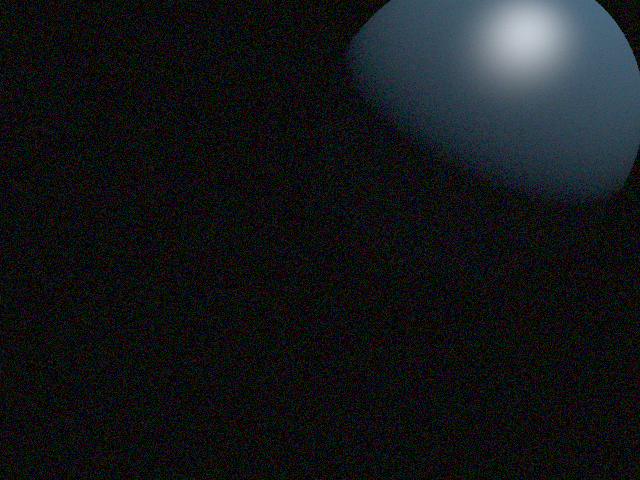
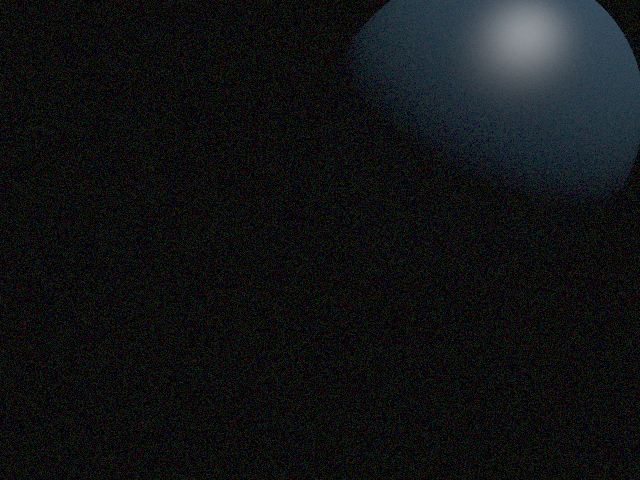
feat(render): add Snell-Descartes refraction with transparency percent (#T057)
Transmission in traceRay via Descartes n1*sin(t1)=n2*sin(t2), ratio frontFace?1/ior:ior,
T=refract(I,N,ratio) origin P-N*eps, TIR (null) keeps base, mix base*(1-Tr)+trans*Tr,
Tr=0 preserves T056, maxDepth0==direct, noexcept no alloc R2/R3, formula commented.
scenes/opt_glass.rt (glass Tr0.9 ior1.5 + red behind) + preuves 12/12
(alias R0.5, material R0.2/Tr0.5 updated).

DoD: make re CXXFLAGS=-std=c++23 green, make test green (194 cases / 72400 assertions, [t057] 4 cases: ior1 no-dev, in/out+TIR, glass shows blue fond, 1.1vs1.5 differ, depth0 cuts, opt_glass non-fond), formula grepable, opt_glass.png valid.

Changed region(s): [[0.5625, 0.0, 1.0, 0.4062]]

diff --git a/tests/unit/test_refraction.cpp b/tests/unit/test_refraction.cpp
@@ -1,0 +1,190 @@
+// Tests de la transparence / refraction (T057, Snell/Descartes), Catch2.
+// DoD : `ior=1` -> pas de deviation, sortie verre->air coherente (dont TIR),
+// formule commentee dans `Renderer.cpp`, scene `scenes/opt_glass.rt`.
+
+#include <catch2/catch_amalgamated.hpp>
+
+#include <cmath>
+#include <string>
+
+#include "rt/base/Vec.hpp"
+#include "rt/render/Framebuffer.hpp"
+#include "rt/render/Renderer.hpp"
+#include "rt/scene/Parser.hpp"
+#include "rt/scene/Scene.hpp"
+
+namespace {
+
+rt::scene::Scene parseOrDie(const std::string& content, const char* name) {
+	rt::Result<rt::scene::Scene> result = rt::scene::parseContent(content, name);
+	REQUIRE(result.isOk());
+	return std::move(result.value());
+}
+
+rt::Vec3 meanAt(const rt::render::Framebuffer& fb, int x, int y) {
+	const rt::Vec3 accum = fb.accumAt(x, y);
+	const int n = fb.samplesAt(x, y);
+	return rt::Vec3(accum.x / static_cast<float>(n), accum.y / static_cast<float>(n),
+	                accum.z / static_cast<float>(n));
+}
+
+} // namespace
+
+TEST_CASE("refraction (T057) : ior=1 pas de deviation (Descartes n1=n2)", "[refraction][t057]") {
+	// Incidence normale : `refract(I, N, 1)` == I (aucune deviation).
+	const rt::Vec3 normal(0.0F, 1.0F, 0.0F);
+	const rt::Vec3 incident(0.0F, -1.0F, 0.0F);
+	const rt::Vec3 straight = rt::refract(incident, normal, 1.0F);
+	REQUIRE_FALSE(rt::nearZero(straight));
+	REQUIRE(straight.x == Catch::Approx(incident.x).margin(1e-5F));
+	REQUIRE(straight.y == Catch::Approx(incident.y).margin(1e-5F));
+	REQUIRE(straight.z == Catch::Approx(incident.z).margin(1e-5F));
+	// Incidence oblique 45 degres : `ratio = 1` ne devie pas non plus.
+	const rt::Vec3 oblique = rt::normalize(rt::Vec3(0.0F, -1.0F, -1.0F));
+	const rt::Vec3 obliqueOut = rt::refract(oblique, normal, 1.0F);
+	REQUIRE_FALSE(rt::nearZero(obliqueOut));
+	REQUIRE(obliqueOut.x == Catch::Approx(oblique.x).margin(1e-5F));
+	REQUIRE(obliqueOut.y == Catch::Approx(oblique.y).margin(1e-5F));
+	REQUIRE(obliqueOut.z == Catch::Approx(oblique.z).margin(1e-5F));
+}
+
+TEST_CASE("refraction (T057) : entree/sortie coherentes + reflexion totale interne",
+          "[refraction][t057]") {
+	// Surface `N = +z`, rayon incident a 60 degres de la normale (`cos = 0.5`).
+	const rt::Vec3 normal(0.0F, 0.0F, 1.0F);
+	const rt::Vec3 incident = rt::normalize(rt::Vec3(0.8660254F, 0.0F, -0.5F));
+	REQUIRE_FALSE(rt::nearZero(incident));
+	// Entree air -> verre (`ratio = 1/1.5`) : se rapproche de la normale
+	// (`|z|` transmis > `|z|` incident, penche vers `-N`).
+	const rt::Vec3 entering = rt::refract(incident, normal, 1.0F / 1.5F);
+	REQUIRE_FALSE(rt::nearZero(entering));
+	REQUIRE(std::isfinite(entering.x));
+	// `z` transmis ≈ -0.816 (calcule : (0.577, 0, -0.816)), plus normal que `-0.5`.
+	REQUIRE(entering.z < incident.z);
+	REQUIRE(entering.z == Catch::Approx(-0.816F).margin(0.01F));
+	REQUIRE(entering.x == Catch::Approx(0.577F).margin(0.01F));
+	// Sortie verre -> air au meme angle (`ratio = 1.5`) : au-dela de l'angle
+	// critique (41.8 degres) -> reflexion totale interne (sentinelle nulle).
+	const rt::Vec3 tir = rt::refract(incident, normal, 1.5F);
+	REQUIRE(rt::nearZero(tir));
+	// Sortie a incidence douce (cos = 0.9, ~25 degres) : s'ecarte de la normale,
+	// fini et normalise.
+	const rt::Vec3 gentle = rt::normalize(rt::Vec3(0.4358899F, 0.0F, -0.9F));
+	const rt::Vec3 exiting = rt::refract(gentle, normal, 1.5F);
+	REQUIRE_FALSE(rt::nearZero(exiting));
+	REQUIRE(std::isfinite(exiting.x));
+	REQUIRE(std::fabs(exiting.x) > std::fabs(gentle.x));
+}
+
+TEST_CASE("refraction (T057) : transparence montre le fond derriere", "[refraction][t057]") {
+	// Pas d'objet derriere (ombres opaques en T057, T058 les affinera) : devant
+	// opaque gris vs devant verre (`Tr 0.9`) face a un fond bleu. Le verre
+	// transmet le fond (miss -> fond), l'opaque montre son diffus gris.
+	const char* opaqueText =
+	    "scene { camera { position (0 0 5) target (0 0 0) fov 60 } "
+	    "background { color (0.1 0.1 0.9) } "
+	    "lights { light { position (0 3 5) color (1 1 1) intensity 1.0 } } "
+	    "objects { "
+	    "object { type sphere center (0 0 0) radius 1 "
+	    "material { albedo (0.8 0.2 0.2) diffuse 0.7 transparency 0.0 ior 1.0 } } } }";
+	const char* glassText =
+	    "scene { camera { position (0 0 5) target (0 0 0) fov 60 } "
+	    "background { color (0.1 0.1 0.9) } "
+	    "lights { light { position (0 3 5) color (1 1 1) intensity 1.0 } } "
+	    "objects { "
+	    "object { type sphere center (0 0 0) radius 1 "
+	    "material { albedo (0.9 0.9 0.9) diffuse 0.2 transparency 0.9 ior 1.5 } } } }";
+	rt::scene::Scene opaque = parseOrDie(opaqueText, "opaque.rt");
+	rt::scene::Scene glass = parseOrDie(glassText, "glass.rt");
+	const rt::render::RenderParams params{.width = 32, .height = 24, .spp = 4, .maxDepth = 4, .seed = 0};
+	rt::render::Framebuffer fbOpaque;
+	rt::render::Framebuffer fbGlass;
+	REQUIRE(rt::render::render(opaque, fbOpaque, params).isOk());
+	REQUIRE(rt::render::render(glass, fbGlass, params).isOk());
+	const rt::Vec3 opaqueCentre = meanAt(fbOpaque, 16, 12);
+	const rt::Vec3 glassCentre = meanAt(fbGlass, 16, 12);
+	INFO("opaque r=" << opaqueCentre.x << " b=" << opaqueCentre.z << " verre r=" << glassCentre.x
+	                 << " b=" << glassCentre.z);
+	REQUIRE(std::isfinite(glassCentre.x));
+	REQUIRE(std::isfinite(glassCentre.y));
+	REQUIRE(std::isfinite(glassCentre.z));
+	// Le verre transmet le fond bleu : plus bleu et moins rouge que l'opaque.
+	REQUIRE(glassCentre.z > opaqueCentre.z);
+	REQUIRE(glassCentre.x < opaqueCentre.x);
+	// `ior` pilote la deviation : `1.1` vs `1.5` (meme `Tr`) donnent 2 images
+	// differentes (au moins un pixel differe au-dela du dithering).
+	// `ior` pilote la deviation : meme scene avec bille rouge derriere (le decalage
+	// par `ior` echantillonne un point different de la bille, meme ombree en T057),
+	// `1.1` vs `1.5` donnent 2 images differentes au-dela du dithering.
+	const char* behind15 =
+	    "scene { camera { position (0 1 4) target (0 0 -1) fov 60 } "
+	    "background { color (0.1 0.1 0.9) } "
+	    "lights { light { position (0 3 5) color (1 1 1) intensity 1.0 } } "
+	    "objects { "
+	    "object { type sphere center (1.2 0 -2) radius 0.5 "
+	    "material { albedo (0.9 0.1 0.1) diffuse 0.7 } } "
+	    "object { type sphere center (0 0 0) radius 1 "
+	    "material { albedo (0.9 0.9 0.9) diffuse 0.2 transparency 0.9 ior 1.5 } } } }";
+	const char* behind11 =
+	    "scene { camera { position (0 1 4) target (0 0 -1) fov 60 } "
+	    "background { color (0.1 0.1 0.9) } "
+	    "lights { light { position (0 3 5) color (1 1 1) intensity 1.0 } } "
+	    "objects { "
+	    "object { type sphere center (1.2 0 -2) radius 0.5 "
+	    "material { albedo (0.9 0.1 0.1) diffuse 0.7 } } "
+	    "object { type sphere center (0 0 0) radius 1 "
+	    "material { albedo (0.9 0.9 0.9) diffuse 0.2 transparency 0.9 ior 1.1 } } } }";
+	rt::scene::Scene scene15 = parseOrDie(behind15, "behind15.rt");
+	rt::scene::Scene glass11 = parseOrDie(behind11, "glass11.rt");
+	rt::render::Framebuffer fb15;
+	rt::render::Framebuffer fbGlass11;
+	REQUIRE(rt::render::render(scene15, fb15, params).isOk());
+	REQUIRE(rt::render::render(glass11, fbGlass11, params).isOk());
+	bool different = false;
+	for (int y = 0; y < params.height && !different; ++y) {
+		for (int x = 0; x < params.width; ++x) {
+			const rt::Vec3 a = meanAt(fb15, x, y);
+			const rt::Vec3 b = meanAt(fbGlass11, x, y);
+			if (std::fabs(a.x - b.x) > 0.031F || std::fabs(a.y - b.y) > 0.031F ||
+			    std::fabs(a.z - b.z) > 0.031F) {
+				different = true;
+				break;
+			}
+		}
+	}
+	INFO("ior 1.5 vs 1.1 differents : " << different);
+	REQUIRE(different);
+	// `maxDepth 0` coupe la transmission : verre `Tr 0.9` == direct (opaque-like).
+	rt::render::Framebuffer fbDepth0;
+	REQUIRE(rt::render::render(glass, fbDepth0,
+	                           {.width = 32, .height = 24, .spp = 4, .maxDepth = 0, .seed = 0})
+	            .isOk());
+	const rt::Vec3 depth0Centre = meanAt(fbDepth0, 16, 12);
+	INFO("profondeur0 r=" << depth0Centre.x << " verre r=" << glassCentre.x);
+	REQUIRE(std::fabs(depth0Centre.x - glassCentre.x) > 0.03F);
+}
+
+TEST_CASE("refraction (T057) : scene opt_glass.rt rend sans erreur", "[refraction][t057]") {
+	rt::Result<rt::scene::Scene> parsed = rt::scene::parseFile("scenes/opt_glass.rt");
+	REQUIRE(parsed.isOk());
+	rt::render::Framebuffer fb;
+	REQUIRE(rt::render::render(parsed.value(), fb, {.width = 48, .height = 36, .spp = 4, .seed = 0})
+	            .isOk());
+	int different = 0;
+	for (int y = 0; y < 36; ++y) {
+		for (int x = 0; x < 48; ++x) {
+			const rt::Vec3 c = meanAt(fb, x, y);
+			REQUIRE(std::isfinite(c.x));
+			REQUIRE(std::isfinite(c.y));
+			REQUIRE(std::isfinite(c.z));
+			const float dr = c.x - parsed.value().background.color.x;
+			const float dg = c.y - parsed.value().background.color.y;
+			const float db = c.z - parsed.value().background.color.z;
+			if ((dr * dr + dg * dg + db * db) > 0.05F * 0.05F) {
+				++different;
+			}
+		}
+	}
+	INFO("non-fond : " << different << "/1728");
+	REQUIRE(different > (48 * 36) / 20);
+}

diff --git a/src/render/Renderer.cpp b/src/render/Renderer.cpp
@@ -1,4 +1,4 @@
-// Boucle de rendu mono-thread (T032) + multi-objets (T046) + reflexion (T056) — implementation
+// Boucle de rendu mono-thread (T032) + multi-objets (T046) + reflexion (T056) + refraction (T057) — implementation
 // sans exception, sans SDL (R6) et sans allocation dans la boucle (R3).
 // Voir `include/rt/render/Renderer.hpp` pour le contrat et
 // `docs/ARCHITECTURE.md` §4 pour le pipeline (camera -> intersection ->
@@ -401,6 +401,18 @@ struct TraceContext {
 // secondaire). Recursion bornee `depth -> depth+1` (pile uniquement, R3),
 // `noexcept`, sans `throw` (R2). Degeneres (normale/direction nulles, NaN)
 // -> direct seul (defini).
+// T057 : refraction (transmission) via la loi de Descartes/Snell (SPEC 5.2 F
+// sous-criteres 3-5, le correcteur cherchera la formule dans le code) :
+//   n1 * sin(theta1) = n2 * sin(theta2)   (Descartes)
+//   ratio = n1 / n2 = frontFace ? 1/ior (air -> verre, entree) : ior/1 (verre -> air, sortie)
+//   T = refract(I, N, ratio)              (`Vec::refract`, N contre le rayon, normalisee)
+//   |T_perp|^2 > 1 -> reflexion totale interne (sentinelle vecteur nul) -> pas de transmission.
+// Ponderation continue : `mix = base*(1-Tr) + transmitted*Tr` (`transparency` 0..1,
+// 0 = opaque, 1 = on voit a travers). `Tr <= 0` ou `depth >= maxDepth` ou TIR
+// -> base seule (direct + eventuelle reflexion). Ordre : reflexion d'abord
+// (`base = direct*(1-R)+reflected*R`), puis transmission (`final = base*(1-Tr)+trans*Tr`)
+// pour que `Tr = 0` preserve exactement le DoD T056. Recursion bornee, pile
+// uniquement (R3), `noexcept`, sans `throw` (R2).
 [[nodiscard]] Vec3 traceRay(const Ray& ray, int depth, const TraceContext& ctx) noexcept {
 	HitRecord rec;
 	if (!findClosestHit(*ctx.objs, ray, kPrimaryTMin, kInfinity, rec)) {
@@ -408,35 +420,70 @@ struct TraceContext {
 	}
 	const Vec3 direct = shadeDirectForHit(rec, ray, ctx);
 	float refl = 0.0F;
+	float transp = 0.0F;
+	float ior = 1.0F;
 	if (rec.materialIndex < ctx.mats->size()) {
-		const float raw = (*ctx.mats)[rec.materialIndex].reflectivity;
-		if (std::isfinite(raw) && raw > 0.0F) {
-			refl = raw > 1.0F ? 1.0F : raw;
+		const shading::MaterialParams& mat = (*ctx.mats)[rec.materialIndex];
+		if (std::isfinite(mat.reflectivity) && mat.reflectivity > 0.0F) {
+			refl = mat.reflectivity > 1.0F ? 1.0F : mat.reflectivity;
+		}
+		if (std::isfinite(mat.transparency) && mat.transparency > 0.0F) {
+			transp = mat.transparency > 1.0F ? 1.0F : mat.transparency;
+		}
+		if (std::isfinite(mat.ior)) {
+			ior = mat.ior;
+			if (ior < 1.0F) {
+				ior = 1.0F;
+			} else if (ior > 3.0F) {
+				ior = 3.0F;
+			}
 		}
 	}
-	if (!(refl > 0.0F)) {
-		return direct;
-	}
-	if (depth >= ctx.maxDepth) {
+	const bool wantRefl = (refl > 0.0F) && (depth < ctx.maxDepth);
+	const bool wantTrans = (transp > 0.0F) && (depth < ctx.maxDepth);
+	if (!wantRefl && !wantTrans) {
 		return direct;
 	}
 	const Vec3 unitN = normalize(rec.normal);
 	if (nearZero(unitN)) {
 		return direct;
 	}
-	const Vec3 reflDir = reflect(ray.direction, unitN);
-	const Vec3 unitR = normalize(reflDir);
-	if (nearZero(unitR)) {
-		return direct;
+	Vec3 base = direct;
+	if (wantRefl) {
+		const Vec3 reflDir = reflect(ray.direction, unitN);
+		const Vec3 unitR = normalize(reflDir);
+		if (!nearZero(unitR)) {
+			const Vec3 origin = rec.point + unitN * kPrimaryTMin;
+			if (std::isfinite(origin.x) && std::isfinite(origin.y) &&
+			    std::isfinite(origin.z)) {
+				const Ray reflRay(origin, unitR, ray.depth + 1U);
+				const Vec3 reflected = traceRay(reflRay, depth + 1, ctx);
+				base = direct * (1.0F - refl) + reflected * refl;
+				base = shading::saturate(base);
+			}
+		}
 	}
-	const Vec3 origin = rec.point + unitN * kPrimaryTMin;
-	if (!std::isfinite(origin.x) || !std::isfinite(origin.y) || !std::isfinite(origin.z)) {
-		return direct;
+	if (wantTrans) {
+		// Descartes : n1*sin(t1) = n2*sin(t2), ratio = n1/n2.
+		const float ratio = rec.frontFace ? (1.0F / ior) : ior;
+		const Vec3 transDir = refract(ray.direction, unitN, ratio);
+		if (!nearZero(transDir)) {
+			const Vec3 unitT = normalize(transDir);
+			if (!nearZero(unitT)) {
+				const Vec3 originT = rec.point - unitN * kPrimaryTMin;
+				if (std::isfinite(originT.x) && std::isfinite(originT.y) &&
+				    std::isfinite(originT.z)) {
+					const Ray transRay(originT, unitT, ray.depth + 1U);
+					const Vec3 transmitted = traceRay(transRay, depth + 1, ctx);
+					const Vec3 mixedT = base * (1.0F - transp) + transmitted * transp;
+					return shading::saturate(mixedT);
+				}
+			}
+		}
+		// TIR (transDir nul) ou degenere : garde `base` (100% reflechi).
+		return shading::saturate(base);
 	}
-	const Ray reflRay(origin, unitR, ray.depth + 1U);
-	const Vec3 reflected = traceRay(reflRay, depth + 1, ctx);
-	const Vec3 mixed = direct * (1.0F - refl) + reflected * refl;
-	return shading::saturate(mixed);
+	return shading::saturate(base);
 }
 
 } // namespace

diff --git a/docs/preuves/README.md b/docs/preuves/README.md
@@ -7,7 +7,7 @@
 ## Régénérer
 
 ```bash
-sh scripts/render_all.sh   # 11/11 images en ~6 s, sortie 0 si tout rend
+sh scripts/render_all.sh   # 12/12 images en ~8 s, sortie 0 si tout rend
 ```
 
 Le script supprime d'abord les anciens `*.png` (**depuis zéro**), rend chaque
@@ -23,12 +23,13 @@ requis, T035), puis affiche le résumé (`ok/total`, durée). Tout échec → so
 | `opt_parallel.png` | `scenes/opt_parallel.rt` | 320×240, spp 4 (soleil directionnel, T055) |
 | `minimal.png` | `tests/cases/valid/minimal.rt` | 640×480, spp 4 |
 | `group.png` | `tests/cases/valid/group.rt` | scène à groupes (File++) |
-| `material.png` | `tests/cases/valid/material.rt` | matériaux |
+| `material.png` | `tests/cases/valid/material.rt` | matériaux (R=0.2/Tr=0.5, T056+T057) |
 | `transform.rt` → `transform.png` | `tests/cases/valid/transform.rt` | transformations |
 | `lights.png` | `tests/cases/valid/lights.rt` | point + directionnel + spot |
 | `limits.png` | `tests/cases/valid/limits.rt` | limites + fond + ambiance |
 | `primitives.png` | `tests/cases/valid/primitives.rt` | 4 primitives |
-| `alias.png` | `tests/cases/valid/alias.rt` | alias + têtes |
+| `alias.png` | `tests/cases/valid/alias.rt` | alias + têtes (miroir R=0.5, T056) |
+| `opt_glass.png` | `scenes/opt_glass.rt` | verre Tr=0.9 ior=1.5 (Descartes, T057) |
 
 Toutes les images sont **versionnées** (DoD T037) mais restent secondaires :
 la preuve, c'est le script + la scène, pas le PNG.

diff --git a/docs/ARCHITECTURE.md b/docs/ARCHITECTURE.md
@@ -352,7 +352,17 @@ if (dir.refract(N, ratio, T))                     // Snell/Descartes
 > `direct*(1-R) + reflected*R`, `R = 0` == direct historique, `R = 1` == miroir pur,
 > dégénérés -> direct seul, `noexcept`, sans allocation). Tests :
 > `tests/unit/test_reflection.cpp` (DoD : `0` identique, `1` reflet net, `maxDepth 0`
-> == mat, 2 miroirs face à face sans boucle). Réfraction en T057.
+> == mat, 2 miroirs face à face sans boucle).
+
+> Implémenté (T057) : transmission dans `traceRay()` via Descartes/Snell
+> (`n1*sin(t1) = n2*sin(t2)`, `ratio = frontFace ? 1/ior : ior`, `T = refract(I,N,ratio)`,
+> origine `P - N*eps`, TIR (vecteur nul) -> base seule, pondération
+> `base*(1-Tr) + transmitted*Tr`, `Tr = 0` préserve T056, `Tr = 1` = à travers,
+> `maxDepth 0` == direct, `noexcept`, sans allocation, formule commentée dans le code).
+> Tests : `tests/unit/test_refraction.cpp` (`ior=1` sans déviation, entrée/sortie + TIR,
+> fond à travers, `1.1` vs `1.5` diffèrent, `maxDepth 0` coupe, `opt_glass.rt` non-fond).
+> Preuves régénérées (`alias.png` R=0.5 par T056, `material.png` R=0.2/Tr=0.5 par T056+T057,
+> `opt_glass.png` nouveau).
 
 ### 4.7 Textures et UV
 
